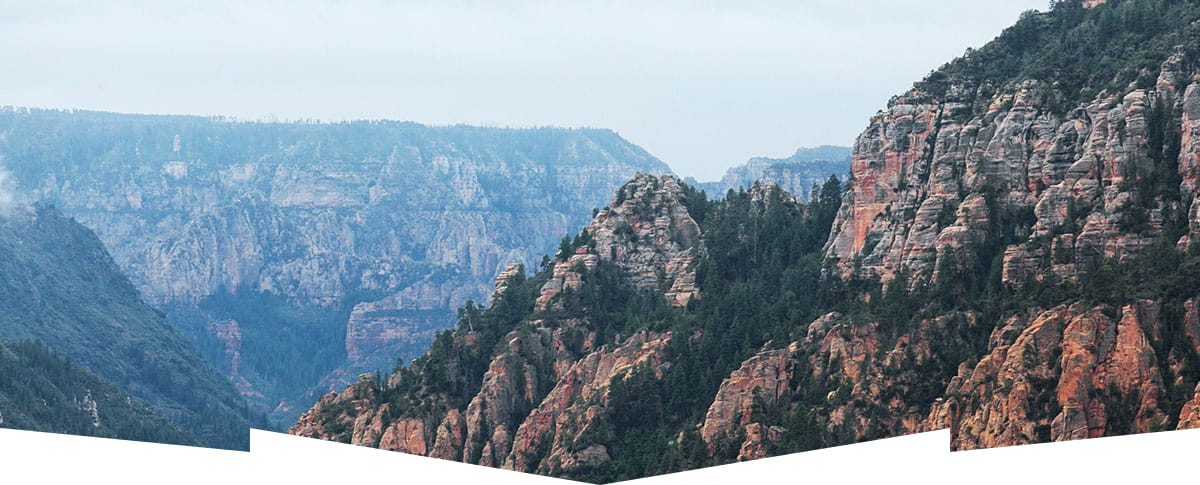
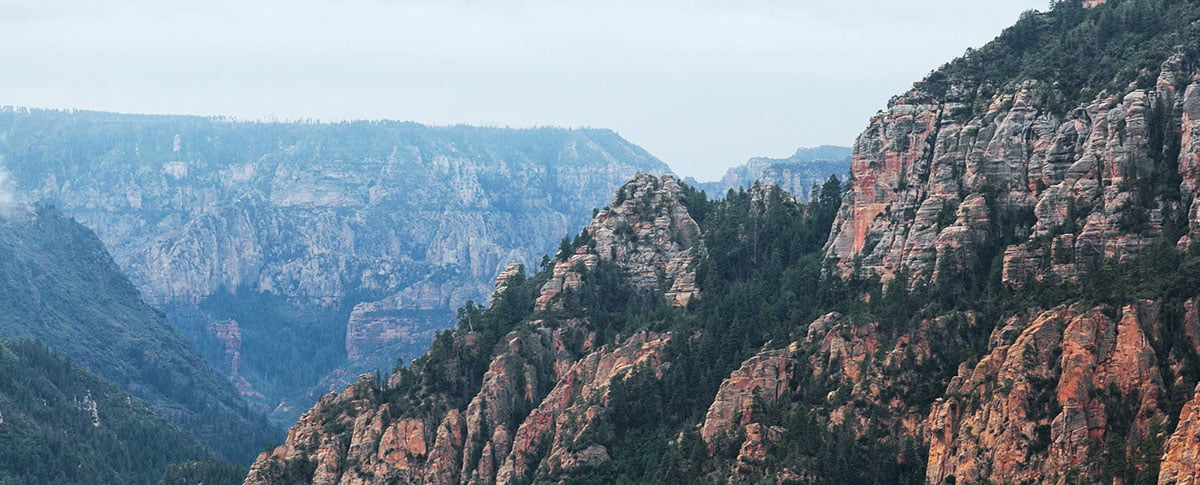
корректировка базовой стилизации

Changed region(s): [[0.0, 0.866, 1.0, 1.0]]

diff --git a/index.html b/index.html
@@ -48,30 +48,26 @@
         <p class="lead advantages-lead">Седона — небольшой городок в Аризоне, заслуживающий большего!</p>
         <p>Рассмотрим причины, по которым Седона круче, чем Гранд-Каньон!</p>
         <ul class="advantages-list">
-          <li class="advantages-item">
-            <div class="advantages-wide">
-              <h3 class="advantages-item-title advantages-wide">Настоящий городок</h3>
-              <p class="advantages-item-description">Седона — не аттракцион для туристов, там течёт своя жизнь</p>
-            </div>
+          <li class="advantages-item advantages-dark">
+            <h3 class="advantages-item-title advantages-title-light">Настоящий городок</h3>
+            <p class="advantages-item-description">Седона — не аттракцион для туристов, там течёт своя жизнь</p>
             <img class="advantages-img" src="images/advantages/advantages-1.jpg" width="800" height="385" alt="Дома в Седоне">
           </li>
-          <li class="advantages-item">
+          <li class="advantages-item advantages-light">
             <h3 class="advantages-item-title">Небольшая площадь</h3>
             <p class="advantages-item-description">Все достопримечательности находятся очень близко</p>
           </li>
-          <li class="advantages-item">
+          <li class="advantages-item advantages-medium">
             <h3 class="advantages-item-title">Красивая дорога</h3>
             <p class="advantages-item-description">Ехать в Седону из Лас-Вегаса совсем не скучно!</p>
           </li>
-          <li class="advantages-item">
+          <li class="advantages-item advantages-light">
             <h3 class="advantages-item-title">Мало туристов</h3>
             <p class="advantages-item-description">Большинство едет в Гранд Каньон и толпится там</p>
           </li>
-          <li class="advantages-item">
-            <div class="advantages-wide">
-              <h3 class="advantages-item-title advantages-wide">Там есть мост дьявола</h3>
-              <p class="advantages-item-description">Да, по нему можно пройти! Если вы осмелитесь, разумеется</p>
-            </div>
+          <li class="advantages-item advantages-dark">
+            <h3 class="advantages-item-title advantages-title-light">Там есть мост дьявола</h3>
+            <p class="advantages-item-description">Да, по нему можно пройти! Если вы осмелитесь, разумеется</p>
             <img class="advantages-img" src="images/advantages/advantages-2.jpg" width="800" height="385" alt="Каньон">
           </li>
         </ul>
@@ -81,7 +77,7 @@
         <p class="lead reccomendations-lead">Приезжайте в Седону отдохнуть в комфорте и уюте!</p>
         <p>Опытный персонал и качественное обслуживание!</p>
         <ul class="recommendations-list">
-          <li class="recommendations-item">
+          <li class="recommendations-item advantages-light">
             <h3 class="recommendations-item-title">Жильё</h3>
             <p class="recommendations-item-description">Рекомендуем пожить в настоящем мотеле, всё как в кино!</p>
           </li>
@@ -89,7 +85,7 @@
             <h3 class="recommendations-item-title">Еда</h3>
             <p class="recommendations-item-description">Всегда заказывайте топовый фирменный бургер, вы не разочаруетесь!</p>
           </li>
-          <li class="recommendations-item">
+          <li class="recommendations-item advantages-light">
             <h3 class="recommendations-item-title">Сувениры</h3>
             <p class="recommendations-item-description">Не только китайского, но и настоящего местного производства!</p>
           </li>

diff --git a/styles/styles.css b/styles/styles.css
@@ -18,7 +18,9 @@ body {
   font-family: "PT Sans", sans-serif;
   font-size: 22px;
   line-height: 26px;
-  background-color: #FFFFFF;
+  font-weight: 400;
+  font-style: normal;
+  background-color: #F2F2F2;
   color: #333333;
 }
 
@@ -36,7 +38,7 @@ body {
 
 .page-header {
   color: #000000;
-  background-color: inherit;
+  background-color: #FFFFFF;
 }
 
 .navigation-link {
@@ -49,13 +51,27 @@ body {
   text-decoration: none;
 }
 
-.hero {
-  background-image: url("../images/index-background.jpg");
-  color: #000000;
+.navigation-user-link {
+  font-size: 20px;
+  line-height: 24px;
+  font-weight: 700;
+  color: inherit;
   background-color: #FFFFFF;
-  background-size: 100% 100%;
-  background-repeat: no-repeat;
   text-align: center;
+  text-decoration: none;
+}
+
+.main-index {
+  background-color: #FFFFFF;
+}
+
+.hero {
+  background-image: url("../images/index-decoration.svg"), url("../images/index-background.jpg");
+  color: #000000;
+  background-color: #756157;
+  background-size: 100% auto, cover;
+  background-repeat: no-repeat;
+  background-position: left bottom, left top;
 }
 
 .advantages {
@@ -85,9 +101,21 @@ body {
   color: inherit;
 }
 
-.advantages-wide {
+.advantages-dark {
   color: #FFFFFF;
   background-color: #82B3D3;
+}
+
+.advantages-title-light {
+  color: #FFFFFF;
+}
+
+.advantages-light {
+  background-color: #83B3D31F;
+}
+
+.advantages-medium {
+  background-color: #83B3D333;
 }
 
 .recommendations {
@@ -126,7 +154,7 @@ body {
   background-image: url("../images/subscribe-background.jpg");
   color: #FFFFFF;
   background-color: #756157;
-  background-size: 100% 100%;
+  background-size: cover;
   background-repeat: no-repeat;
 }
 
@@ -151,6 +179,10 @@ body {
   background-color: #82B3D3;
 }
 
+.page-footer {
+  background-color: #FFFFFF;
+}
+
 .footer-phone {
   font-size: 40px;
   line-height: 40px;
@@ -161,9 +193,13 @@ body {
   text-transform: uppercase;
 }
 
+.main-catalog {
+  background-color: #FFFFFF;
+}
+
 .catalog-assets {
   background-image: url("../images/filters-background.jpg");
-  background-size: 100% 100%;
+  background-size: cover;
   background-repeat: no-repeat;
   background-color: #756157;
   color: #FFFFFF;
@@ -224,6 +260,7 @@ body {
   line-height: 21px;
   font-weight: 400;
   color: #333333;
+  background-color: #FFFFFF;
 }
 
 .product-item-link {

diff --git a/catalog.html b/catalog.html
@@ -31,6 +31,7 @@
           <li class="navigation-user-item">
             <a class="navigation-user-link navigation-user-link-favorite" href="#">
               <span class="visually-hidden">Избранное</span>
+              <span class="notification-badge">12</span>
             </a>
           </li>
         </ul>
@@ -89,10 +90,10 @@
             </fieldset>
             <fieldset class="catalog-filter-group">
               <legend class="catalog-filter-title">Стоимость, ₽:</legend>
-              <input type="text" name="min-range" value="0" id="from">
               <label class="catalog-filter-range" for="from">От</label>
-              <input type="text" name="max-range" value="9000" id="to">
+              <input type="text" name="min-range" value="0" id="from">
               <label class="catalog-filter-range" for="to">До</label>
+              <input type="text" name="max-range" value="9000" id="to">
               <button class="button catalog-filter-range-handle min" type="button">
                 <span class="visually-hidden">Изменение нижнего значения стоимости</span>
               </button>
